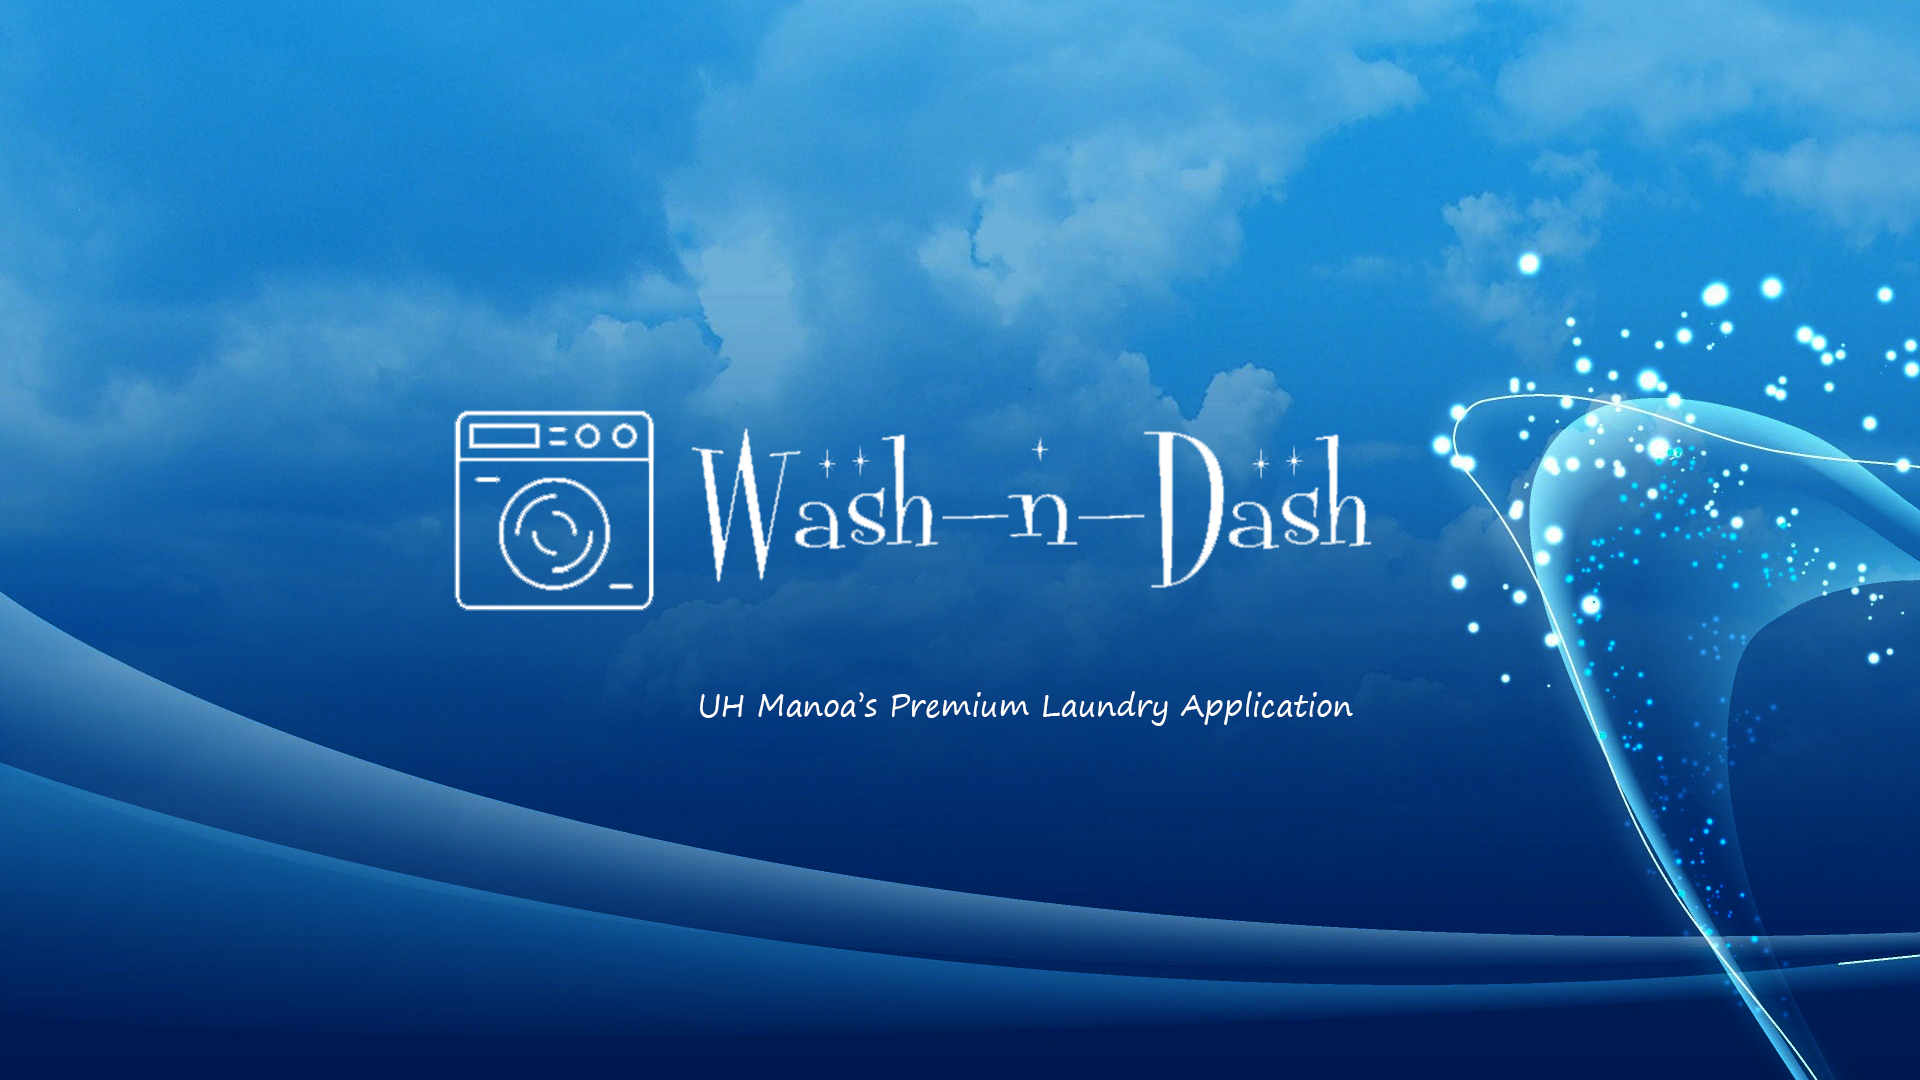
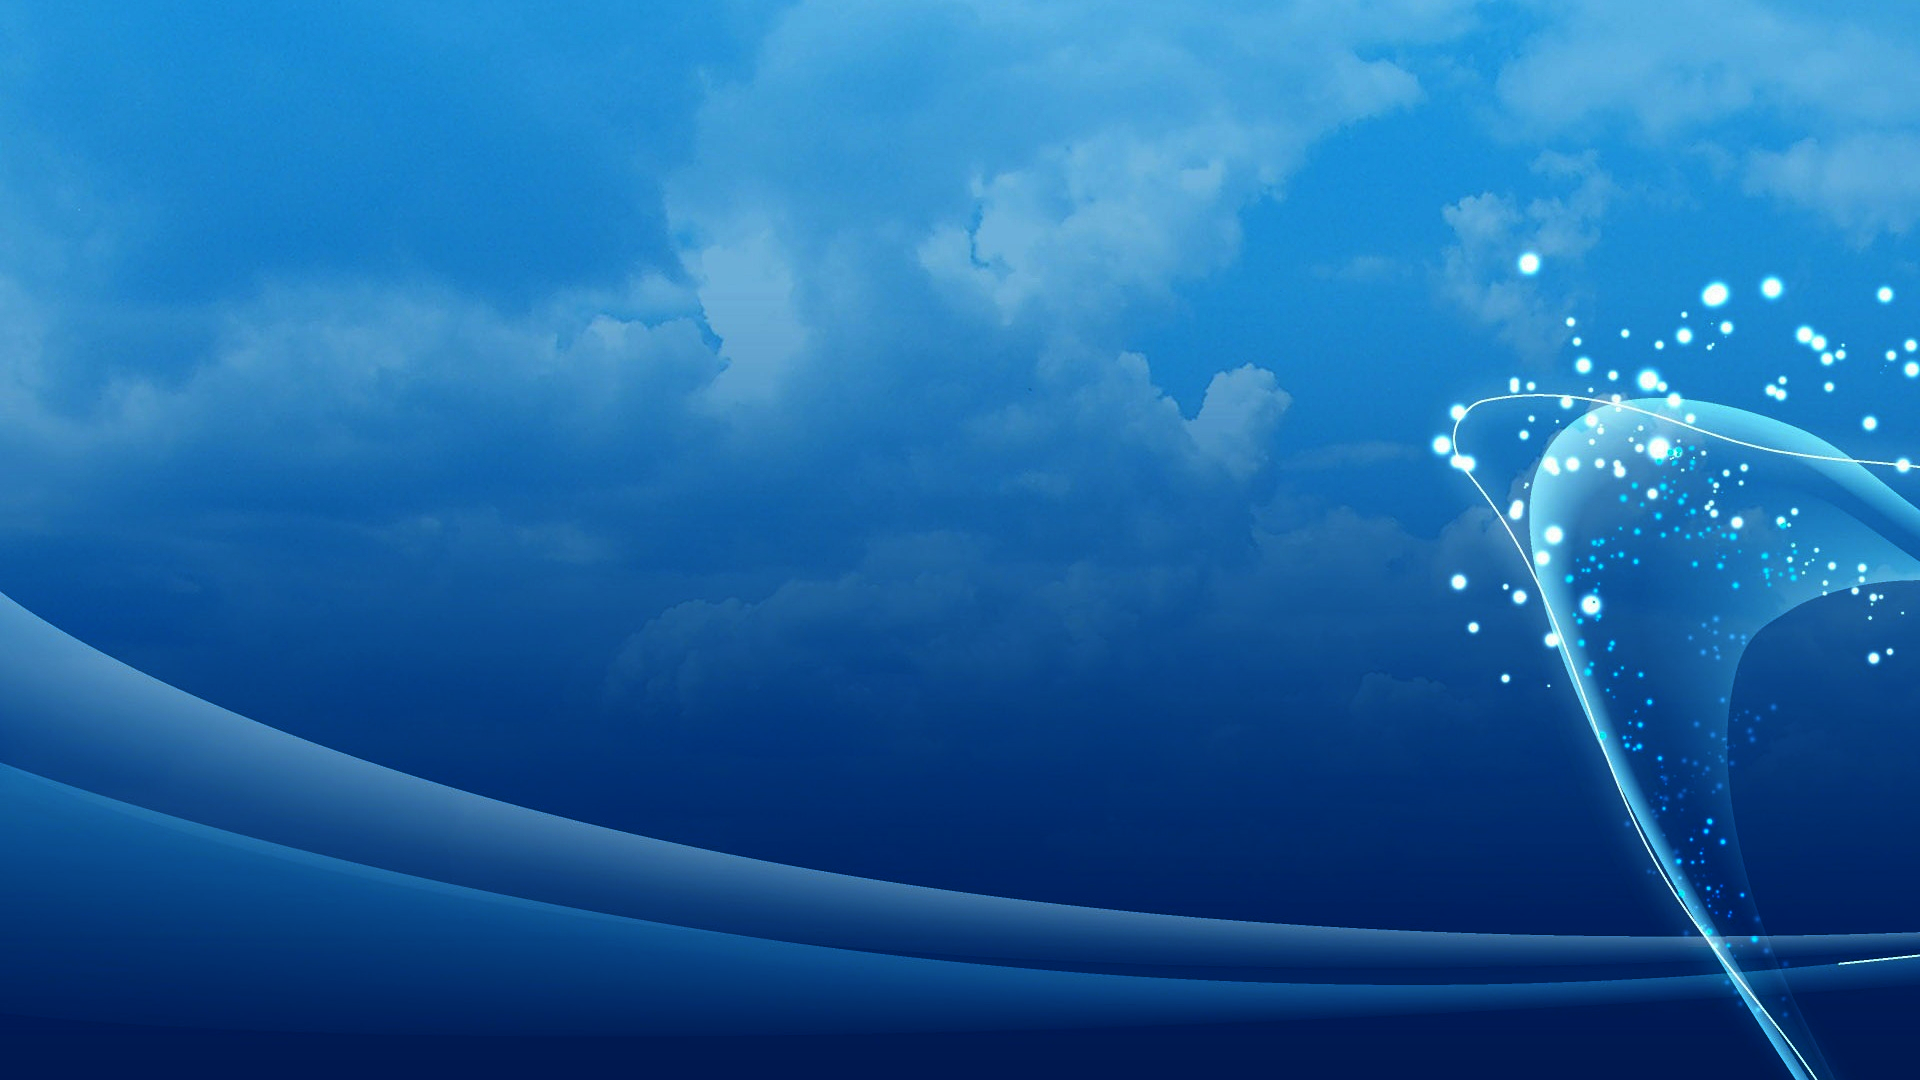
Redone background
Redid the background, Still need to fix logo.

Changed region(s): [[0.2188, 0.3667, 0.7188, 0.5806], [0.375, 0.6417, 0.7188, 0.6722]]

diff --git a/app/imports/ui/pages/Landing.jsx b/app/imports/ui/pages/Landing.jsx
@@ -1,12 +1,13 @@
 /* eslint-disable max-len */
 import React from 'react';
-import { Grid, Icon, Header } from 'semantic-ui-react';
+import { Image, Grid, Icon, Header } from 'semantic-ui-react';
 
 /** A simple static component to render some text for the landing page. */
 class Landing extends React.Component {
   render() {
     return (
         <div className={'wash-landing-background'}>
+          <Image src='images/logo2.png' fluid />
           <Grid container stackable centered columns={3}>
 
             <Grid.Column textAlign='center'>

diff --git a/app/client/style.css b/app/client/style.css
@@ -1,4 +1,4 @@
 .wash-landing-background {
-  background: url('/images/wash-n-dash-landing.png') no-repeat center center fixed;
-  background-size: contain;
+  background: url('/images/wash-n-dash-landing.png') no-repeat center center;
+  background-size: cover;
 }
